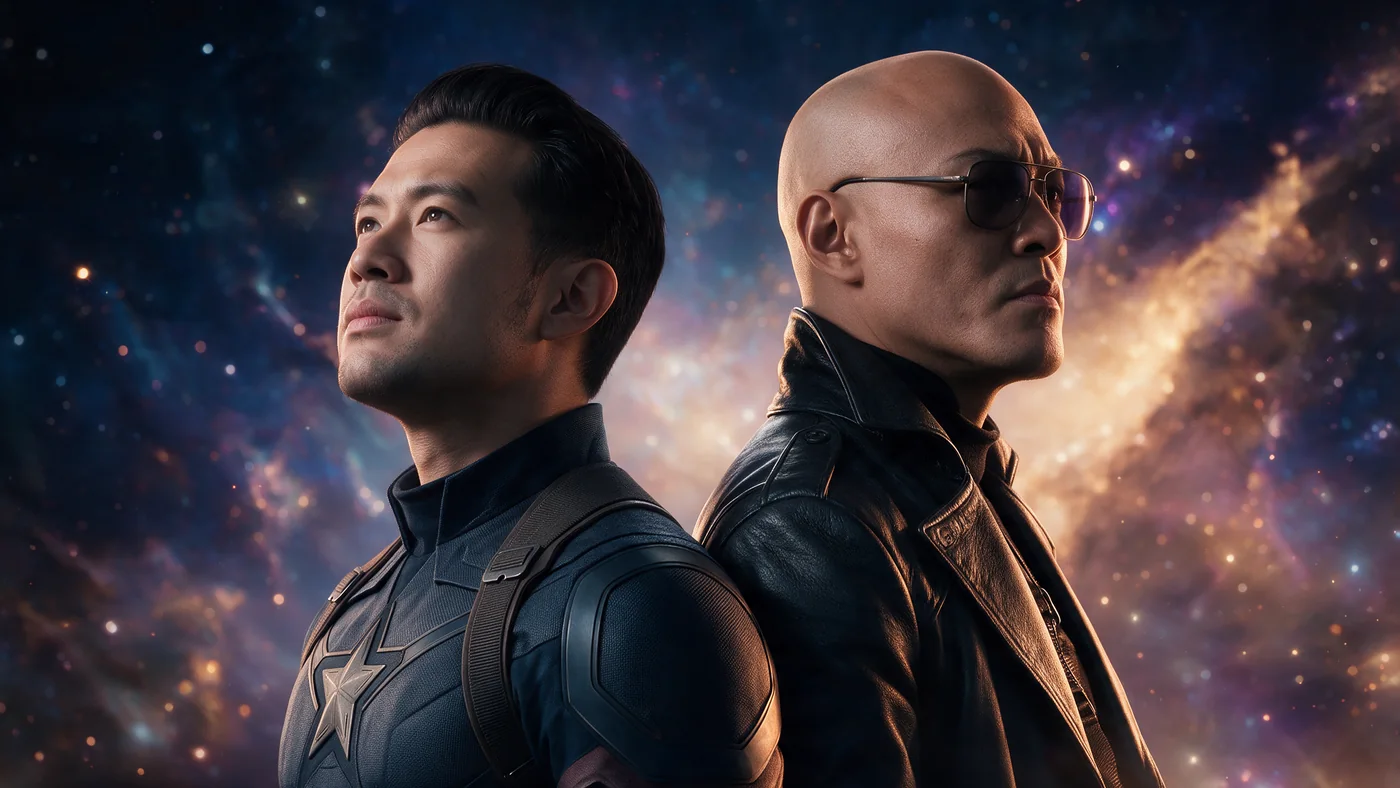
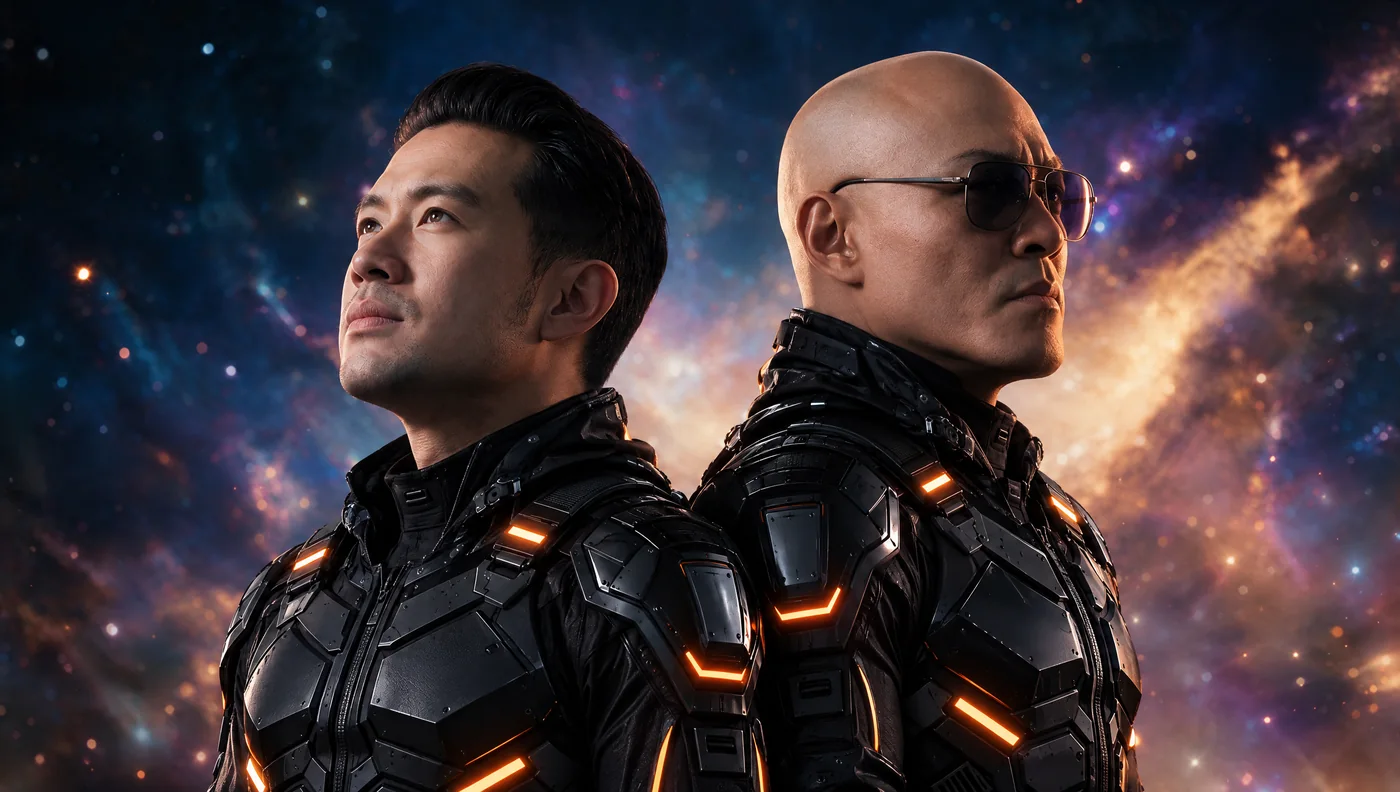
Home Founders card: updated founders image (armor suits)
Claude-Session: https://claude.ai/code/session_01QpfYAiXFaQHcA12hC36bw4

diff --git a/index.html b/index.html
@@ -845,7 +845,7 @@
     <div class="rail-label"><span>02</span><b>Founders</b></div>
       <div class="eyebrow">02 / Leadership</div>
       <a class="arrow" href="#">→</a>
-      <img class="pic cover" src="founders-card.webp?v=2" alt="Yohanes Auri dan Deddy Corbuzier" decoding="async">
+      <img class="pic cover" src="founders-card.webp?v=3" alt="Yohanes Auri dan Deddy Corbuzier" decoding="async">
       <div class="names">
         <h2>MEET<br>THE FOUNDERS.</h2>
         <p>Yohanes Auri <i>×</i> Deddy Corbuzier</p>
